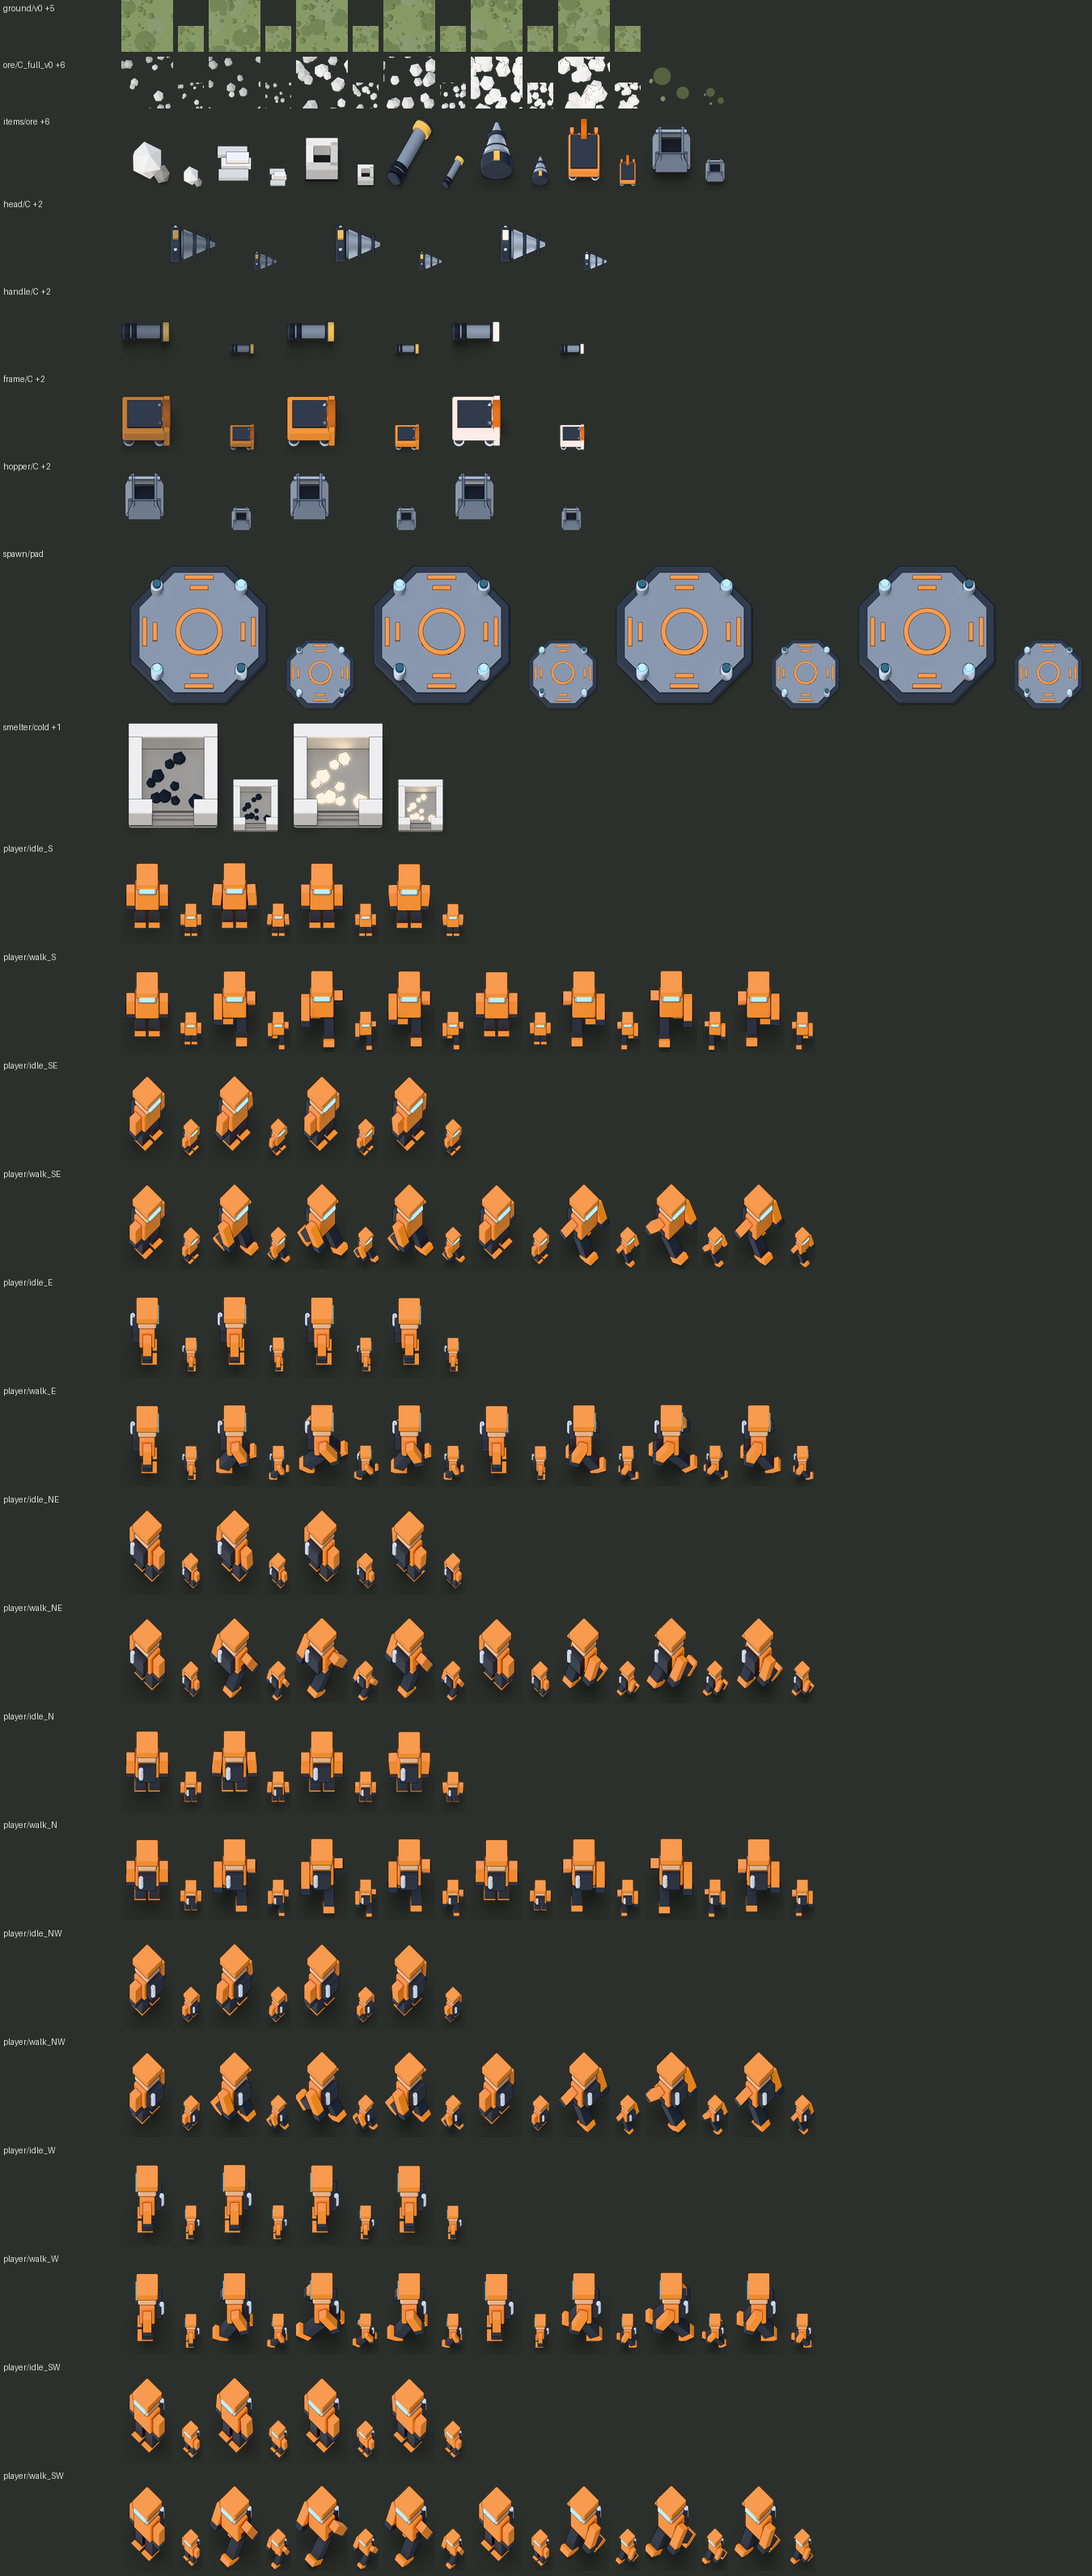
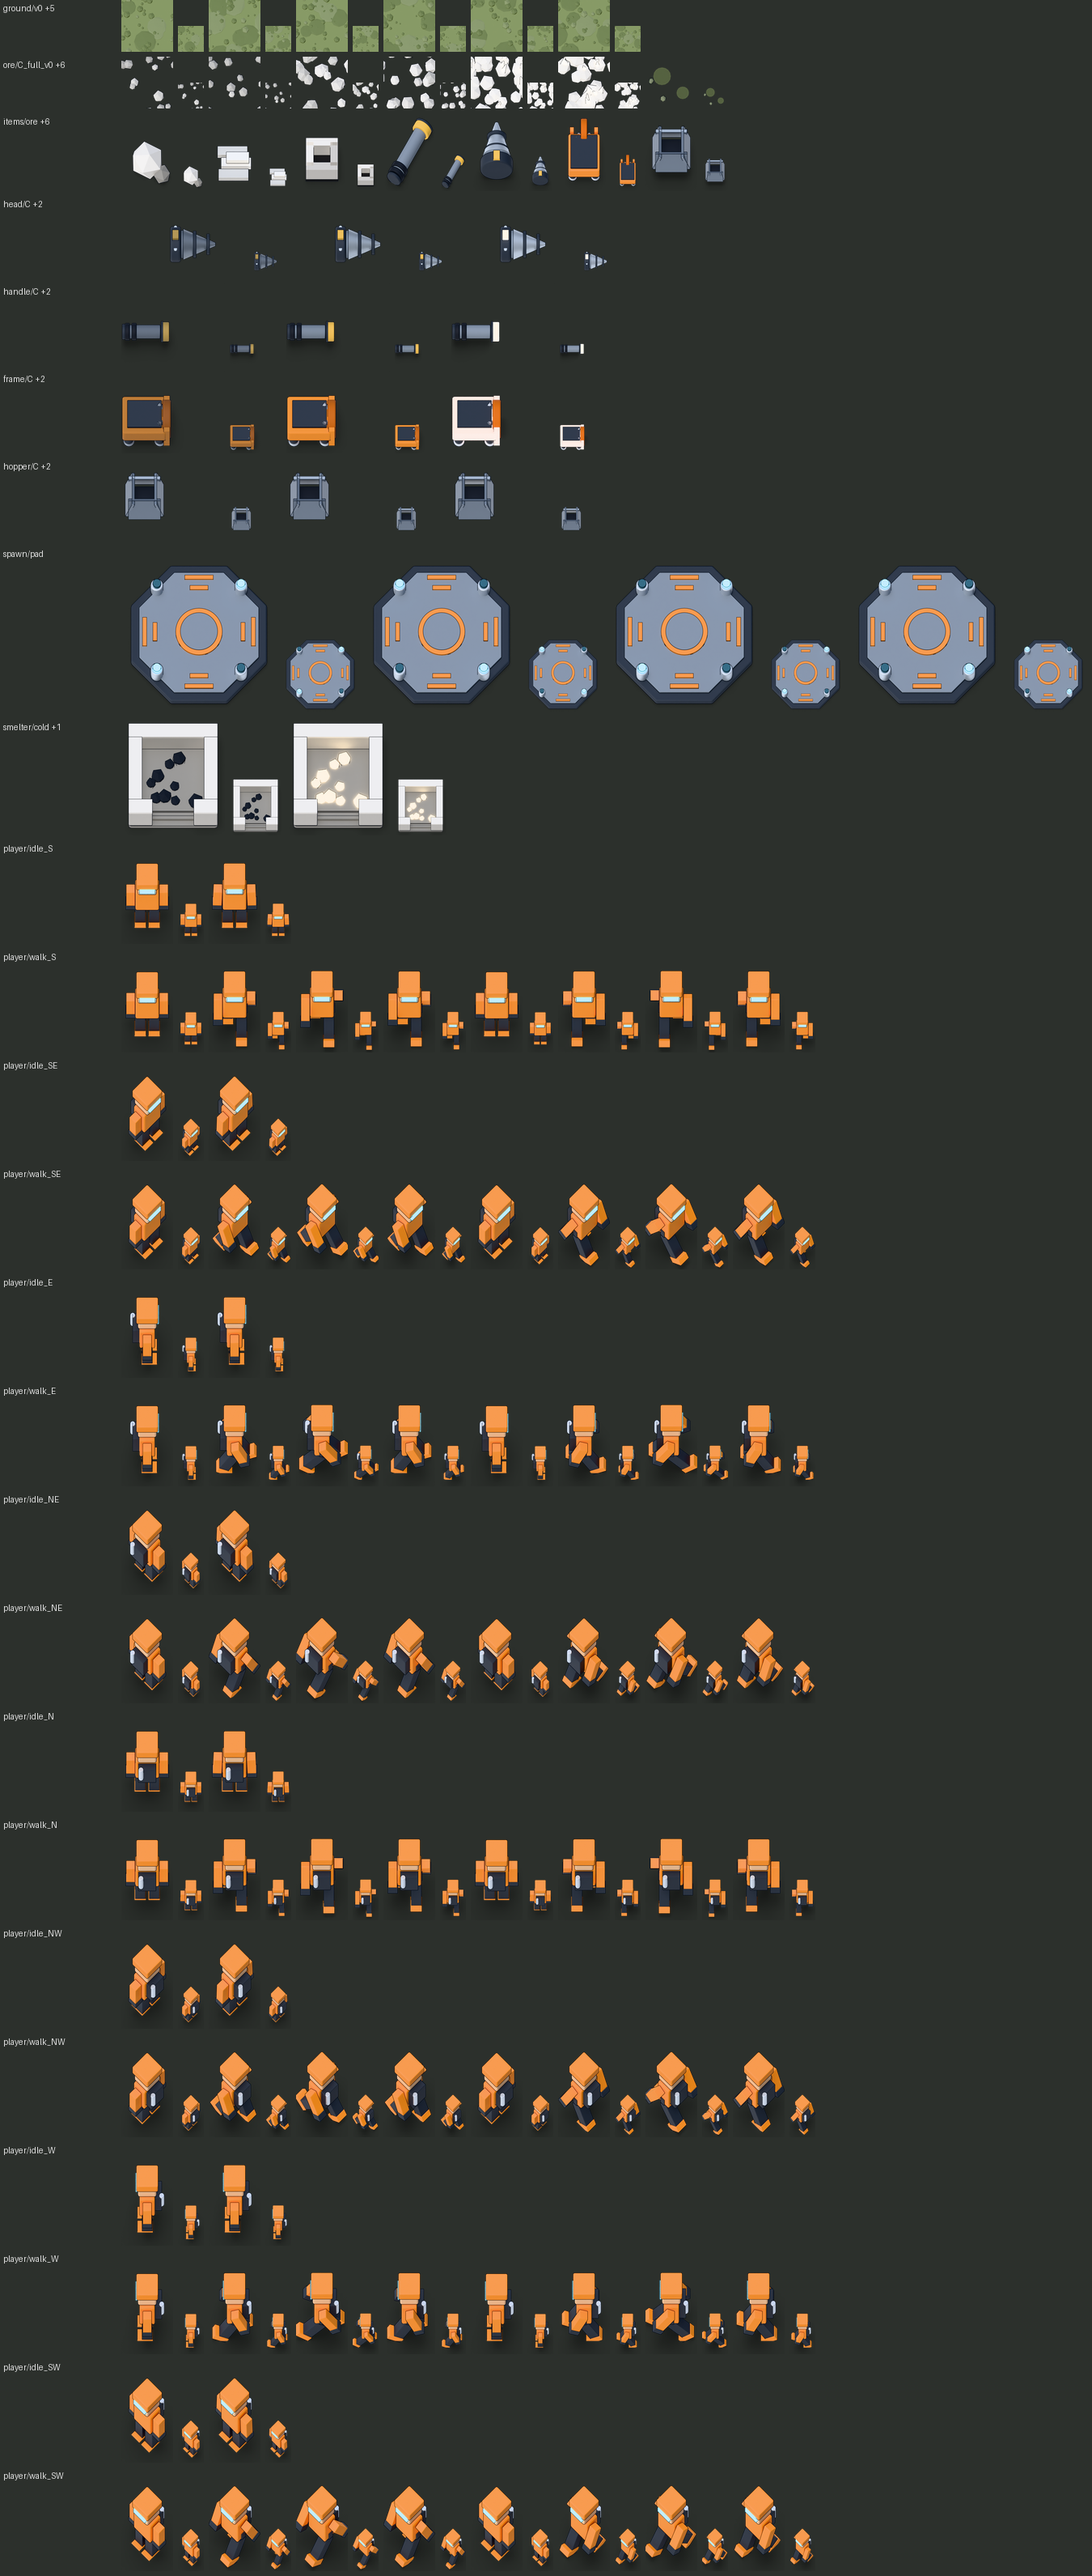
The idle is a breath with its feet on the ground (ASSA-115 part 4)
Maren: "2 distinct poses at 2fps with a small delta" rather than "3 at 4fps
with a big one". It was 4 frames / 3 distinct, because `sin` at 0, pi/2, pi,
3pi/2 gives 0, +1, 0, -1 and the two zeroes are the same pose -- a 3-pose
cycle with a stutter, playing whenever you are not walking.

Worst consecutive step, measured at 32px per facing, before -> after:

  S/SE/SW/N/NE/NW   25-29%  ->  15-20%   of pixels changing by more than 8
  E/W               16-19%  ->   6-7%
  same, over 24     13-17%  ->   5-9%
  frames / distinct    4/3  ->     2/2        fps  4 -> 2

THE BOOTS CAME OFF THE GROUND AND NOBODY HAD LOOKED. `hip` is a CHILD of
`body`, so `body.location.z` bobbed the legs and boots along with the chest.
A breathing idle whose feet leave the floor. The hips are now
counter-translated, which is the correct drawing and is also what finally
moved the number.

THE AMPLITUDE WAS NOT THE LEVER AND I TRIED IT FIRST: halving the bob moved
the worst step 29% -> 28%. At 32px this figure is ~18px tall, so the old bob
is about half a screen pixel and ANY sub-pixel shift re-renders every edge it
touches. Below a pixel the count stops tracking what a player sees and starts
tracking the resampler. What works is moving LESS OF THE SPRITE, not moving it
less far.

AND THE TWO POSES ARE NEUTRAL AND INHALE, NOT TWO MIRRORED EXTREMES. The
obvious repair for `2*pi*f/n` drawing the same pose twice is to offset a
quarter turn and take sin +1 and -1 -- I rendered that, and it is a lean
[…]

diff --git a/sim-game/art/assets/player.py b/sim-game/art/assets/player.py
@@ -11,7 +11,41 @@ from rig import mat
 
 out = rig.args()
 DIRS = ["S", "SE", "E", "NE", "N", "NW", "W", "SW"]
-WALK_FRAMES, IDLE_FRAMES = 8, 4
+WALK_FRAMES, IDLE_FRAMES = 8, 2
+
+# IDLE WAS 4 FRAMES AT 4FPS AND IT TWITCHED (Maren, ASSA-115 ruling 2).
+# 4 frames, 3 distinct, because `sin` at phases 0, pi/2, pi, 3pi/2 gives
+# 0, +1, 0, -1 and the two zeroes are the same pose -- so it was really a
+# 3-pose cycle with a stutter in it, playing whenever you are not walking,
+# which is most of the time you are looking at your own character.
+#
+# MEASURED AT 32PX, worst consecutive step, before this change: 25-29% of the
+# sprite moving on S/SE/SW/N/NE/NW and 16-19% on E/W. (The brief's "53%" is a
+# differ-at-ALL count, which scores a one-unit change in one channel as
+# motion; these columns threshold at 8.)
+#
+# NOW 2 POSES AT 2FPS, which is Maren's prescription: "2 distinct poses at
+# 2fps with a small delta" rather than "3 at 4fps with a big one".
+#
+# THE TWO POSES ARE NEUTRAL AND FULL INHALE, not the two extremes, and I tried
+# it the other way first. `2*pi*f/n` at two frames draws `sin` 0 and 0 -- the
+# same pose twice, an idle that does not move at all -- so the obvious repair
+# is to offset a quarter turn and take sin +1 and -1. That renders a mirrored
+# LEAN rather than a breath, doubles the travel between consecutive frames,
+# and pushed `check_headroom` UP on idle_E and idle_N (4.9 -> 6.0, 4.6 -> 5.4)
+# because both frames now hold the arms where the visor and the tank catch
+# the key. Stepping pi/2 instead gives sin 0 and +1: one breath in, one out,
+# half the travel, and both poses already existed in the old four-frame
+# cycle.
+#
+# THE AMPLITUDE IS HALVED TOO, and this is the half I am least sure of: at
+# 32px the figure is about 18px tall, so the old 0.015 bob is about half a
+# screen pixel, and ANY sub-pixel shift re-renders every edge. Below about a
+# pixel the pixel-change count stops tracking what a player sees and starts
+# tracking the resampler, so the honest lever here is the RATE, not the size.
+IDLE_STEP = math.pi / 2          # neutral -> full inhale, and back
+IDLE_BOB = 0.0075                # was 0.015
+IDLE_SWING = 0.03                # was 0.06, the shoulder
 
 r = rig.Rig(samples=48)
 r.shadow_catcher()
@@ -40,7 +74,7 @@ for side, x in (("l", -0.32), ("r", 0.32)):
     limbs[side] = (sh, hip)
 
 asset = rig.Asset("player", out, (1, 1), headroom=1.0)
-asset.anim("idle", IDLE_FRAMES, 4); asset.anim("walk", WALK_FRAMES, 12)
+asset.anim("idle", IDLE_FRAMES, 2); asset.anim("walk", WALK_FRAMES, 12)
 r.frame(1, 1, headroom=1.0)
 SWING = math.radians(38)
 
@@ -50,19 +84,43 @@ def pose(walk_phase=None, idle_phase=None):
         sw = math.sin(walk_phase) * SWING
         limbs["l"][1].rotation_euler = (sw, 0, 0); limbs["r"][1].rotation_euler = (-sw, 0, 0)
         limbs["l"][0].rotation_euler = (-sw * 0.8, 0, 0); limbs["r"][0].rotation_euler = (sw * 0.8, 0, 0)
+        # Put the hips back where the rig built them. The idle branch below
+        # counter-translates them to keep the boots planted, and the rig is
+        # ONE scene posed in place for every frame -- so without this, every
+        # walk frame would inherit whatever offset the last idle frame left,
+        # and the walk of all eight facings would quietly sit 0.0075 high.
+        for s in ("l", "r"):
+            limbs[s][1].location.z = -0.30
         body.location.z = 0.78 + 0.035 * abs(math.sin(walk_phase))
     else:
         for s in ("l", "r"):
             limbs[s][1].rotation_euler = (0, 0, 0); limbs[s][0].rotation_euler = (0, 0, 0)
-        body.location.z = 0.78 + 0.015 * math.sin(idle_phase)
-        limbs["l"][0].rotation_euler = (0, 0.06 * math.sin(idle_phase), 0)
-        limbs["r"][0].rotation_euler = (0, -0.06 * math.sin(idle_phase), 0)
+        # THE BOB LIFTS THE TORSO AND LEAVES THE BOOTS ON THE GROUND.
+        #
+        # `hip` is a CHILD of `body`, so the old `body.location.z` bob raised
+        # and lowered the legs and boots with everything else -- a breathing
+        # idle whose feet came off the floor. Nobody had looked at what the
+        # bob was parented to, including me when I wrote it.
+        #
+        # It is also the whole reason the per-step pixel count would not come
+        # down. I halved the amplitude first and the worst step moved 29% ->
+        # 28%, because at 32px this figure is ~18px tall and ANY sub-pixel
+        # shift re-renders every edge it touches. The lever is not how FAR the
+        # sprite moves, it is HOW MUCH OF IT moves. Pinning the legs takes a
+        # third of the silhouette out of the motion and is the correct
+        # drawing at the same time.
+        bob = IDLE_BOB * math.sin(idle_phase)
+        body.location.z = 0.78 + bob
+        for s in ("l", "r"):
+            limbs[s][0].rotation_euler = (0, (1 if s == "l" else -1)
+                                          * IDLE_SWING * math.sin(idle_phase), 0)
+            limbs[s][1].location.z = -0.30 - bob   # cancel the bob: feet stay planted
 
 
 for d, name in enumerate(DIRS):
     root.rotation_euler = (0, 0, math.radians(d * 45))
     for f in range(IDLE_FRAMES):
-        pose(idle_phase=2 * math.pi * f / IDLE_FRAMES)
+        pose(idle_phase=IDLE_STEP * f)
         r.render(asset.path(f"idle_{name}", f))
     asset.add(f"idle_{name}", IDLE_FRAMES)
     for f in range(WALK_FRAMES):
